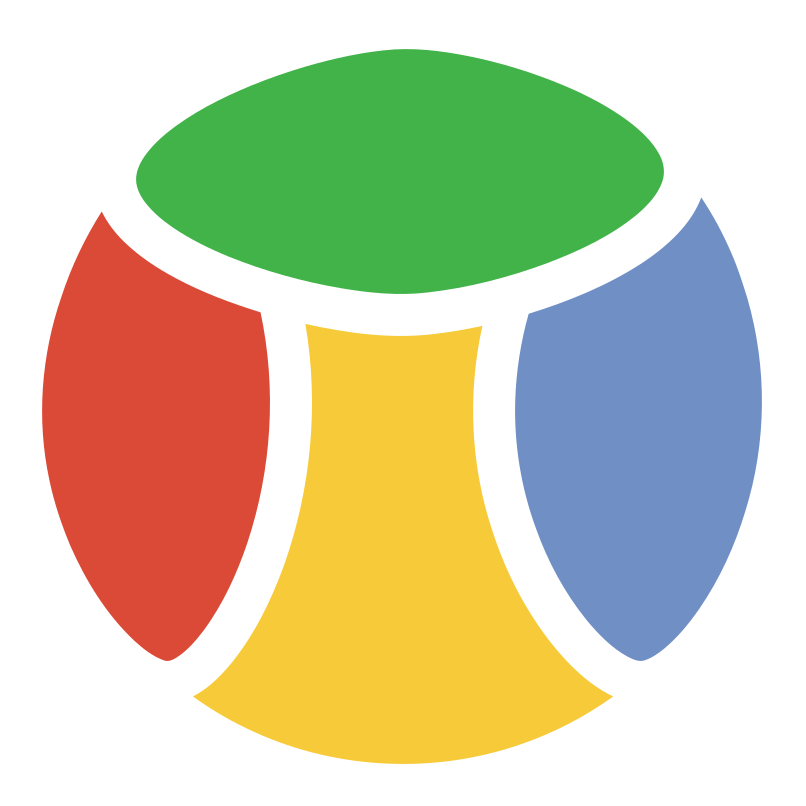
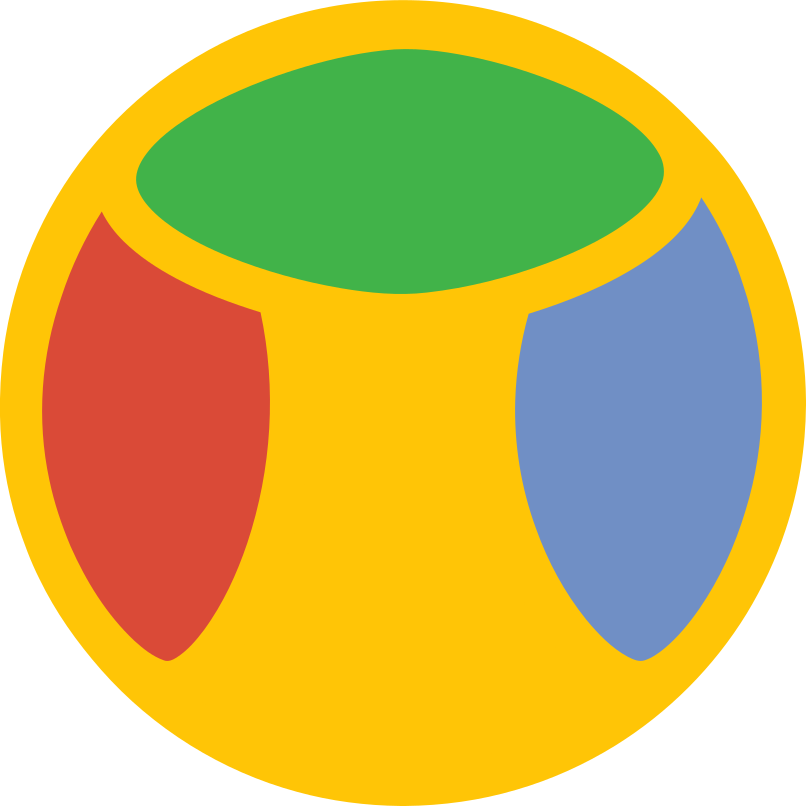
Branding improvements/fixes/changes across differentiation Platform-OS

diff --git a/os/index.html b/os/index.html
@@ -1,13 +1,13 @@
 <!DOCTYPE html>
 <html lang="en-us">
  <head>
-  <title color="">Floflis Platform</title>
+  <title color="">Floflis OS</title>
 <meta charset="utf-8">
 <meta http-equiv="content-type" content="text/html; charset=utf-8" />
 <meta content="width=device-width,initial-scale=1,minimal-ui,shrink-to-fit=no,user-scalable=no" name="viewport">
 <base href="../">
-  <link rel="shortcut icon" href="icon.ico" type="image/x-icon">
-  <link rel="icon" href="icon.ico" type="image/x-icon">
+  <link rel="shortcut icon" href="./os/icon.ico" type="image/x-icon">
+  <link rel="icon" href="./os/icon.ico" type="image/x-icon">
 <link rel="logo" href="flag.svg" border="true" />
 <script type="text/javascript" src="plugins/jQuery/jquery.min.js"></script>
 <script type="text/javascript" src="plugins/Popper.js/popper.min.js"></script>
@@ -65,7 +65,7 @@ header nav ul li p{color:#fff!important}
 
 <div class="content">
 <article>
-<center><img class="img-fluid" width="500px" src="https://github.com/Floflis/nftmark/raw/master/screenshot.png"/><br/><br/><img width="420px" class="img-fluid" src="./press/press-kit/img/logotype_colored.svg" title="Floflis OS" alt="Floflis OS"/><br/><h2>Its to the Web 3.0 what Windows 98 was to the Web 1.0.</h2><h3>What would happen if nowadays OSes had Web3/PlayToEarn/tokens/NFTs integrated? See it on Floflis 🏐</h3>
+<center><img class="img-fluid" width="500px" src="https://github.com/Floflis/nftmark/raw/master/screenshot.png"/><br/><br/><img width="420px" class="img-fluid" src="./press/press-kit/img/OSlogotype.svg" title="Floflis 19" alt="Floflis 19"/><br/><h2>Its to the Web 3.0 what Windows 98 was to the Web 1.0.</h2><h3>What would happen if nowadays OSes had Web3/PlayToEarn/tokens/NFTs integrated? See it on Floflis 🏐</h3>
 
 <h0>But wait!</h0>
 <h1>BLA BLA BLA NFTS, BLA BLA BLA TOKENS...</h1>
@@ -208,7 +208,7 @@ width: 82%;
 
 </article>
 <footer><div class="footer-shadow"></div>
-<center>Last update in Thu Apr 06 14:02 2023 -0300. <a href="http://status.floflis.com/" target="_blank">Status</a>.</center><a href="https://framework.js.org/" target="blank"><img src="https://img.shields.io/badge/built%20with-Framework.js%20(r1)-00A185.svg"></a><!--<a href="https://plasnerd.github.io/PEHTML/" target="blank"><img src="https://plasnerd.github.io/PEHTML/img/seal-2.png" width="167px" height="94px" style="-webkit-user-drag:element"></a>-->
+<center>Last update in Wed Apr 26 20:44 2023 -0300. <a href="http://status.floflis.com/" target="_blank">Status</a>.</center><a href="https://framework.js.org/" target="blank"><img src="https://img.shields.io/badge/built%20with-Framework.js%20(r1)-00A185.svg"></a><!--<a href="https://plasnerd.github.io/PEHTML/" target="blank"><img src="https://plasnerd.github.io/PEHTML/img/seal-2.png" width="167px" height="94px" style="-webkit-user-drag:element"></a>-->
 <div class="social-icons">
 <a href="https://twitter.com/FloflisOS" target="blank"><img src="img/social/twitter.svg" width="40px" height="40px" title="Follow us and receive latest news feed about Floflis progress and other development tools" alt="Twitter"></a>
 <a href="https://tiktok.com/@floflisos" target="blank"><img src="img/social/tiktok.svg" width="40px" height="40px" title="Watch our videos with news/tutorials" alt="Youtube" class="round"></a>

diff --git a/os/download/index.html b/os/download/index.html
@@ -1,13 +1,13 @@
 <!DOCTYPE html>
 <html lang="en-us">
  <head>
-  <title color="">Floflis Platform</title>
+  <title color="">Floflis OS</title>
 <meta charset="utf-8">
 <meta http-equiv="content-type" content="text/html; charset=utf-8" />
 <meta content="width=device-width,initial-scale=1,minimal-ui,shrink-to-fit=no,user-scalable=no" name="viewport">
 <base href="../../">
-  <link rel="shortcut icon" href="icon.ico" type="image/x-icon">
-  <link rel="icon" href="icon.ico" type="image/x-icon">
+  <link rel="shortcut icon" href="./os/icon.ico" type="image/x-icon">
+  <link rel="icon" href="./os/icon.ico" type="image/x-icon">
 <link rel="logo" href="flag.svg" border="true" />
 <script type="text/javascript" src="plugins/jQuery/jquery.min.js"></script>
 <script type="text/javascript" src="plugins/Popper.js/popper.min.js"></script>
@@ -64,7 +64,7 @@ header nav ul li p{color:#fff!important}
 
 <div class="content">
 <article>
-<center><img class="img-fluid" width="500px" src="https://github.com/Floflis/nftmark/raw/master/screenshot.png"/><br/><br/><img width="420px" class="img-fluid" src="./press/press-kit/img/logotype_colored.svg" title="Floflis OS" alt="Floflis OS"/><br/><h1>Download</h1>
+<center><img class="img-fluid" width="500px" src="https://github.com/Floflis/nftmark/raw/master/screenshot.png"/><br/><br/><img width="420px" class="img-fluid" src="./press/press-kit/img/OSlogotype.svg" title="Floflis 19" alt="Floflis 19"/><br/><h1>Download</h1>
 
 <small>Despite the "<b>19</b>" in the edition name, Floflis is being actively developed using current technology (such as <b>Ubuntu 23.04 Lunar Lobster</b> and ready for Ubuntu 24).</small>
 <p>Once the Floflis Insiders program is launched, you'll be able to download build ISOs/images.</p>
@@ -98,7 +98,7 @@ header nav ul li p{color:#fff!important}
 
 </article>
 <footer><div class="footer-shadow"></div>
-<center>Last update in Thu Apr 06 14:03 2023 -0300. <a href="http://status.floflis.com/" target="_blank">Status</a>.</center><a href="https://framework.js.org/" target="blank"><img src="https://img.shields.io/badge/built%20with-Framework.js%20(r1)-00A185.svg"></a><!--<a href="https://plasnerd.github.io/PEHTML/" target="blank"><img src="https://plasnerd.github.io/PEHTML/img/seal-2.png" width="167px" height="94px" style="-webkit-user-drag:element"></a>-->
+<center>Last update in Wed Apr 26 20:44 2023 -0300. <a href="http://status.floflis.com/" target="_blank">Status</a>.</center><a href="https://framework.js.org/" target="blank"><img src="https://img.shields.io/badge/built%20with-Framework.js%20(r1)-00A185.svg"></a><!--<a href="https://plasnerd.github.io/PEHTML/" target="blank"><img src="https://plasnerd.github.io/PEHTML/img/seal-2.png" width="167px" height="94px" style="-webkit-user-drag:element"></a>-->
 <div class="social-icons">
 <a href="https://twitter.com/FloflisOS" target="blank"><img src="img/social/twitter.svg" width="40px" height="40px" title="Follow us and receive latest news feed about Floflis progress and other development tools" alt="Twitter"></a>
 <a href="https://tiktok.com/@floflisos" target="blank"><img src="img/social/tiktok.svg" width="40px" height="40px" title="Watch our videos with news/tutorials" alt="Youtube" class="round"></a>

diff --git a/press/press-kit/index.html b/press/press-kit/index.html
@@ -54,7 +54,7 @@
   </button>
 </div>
 <article>
-<center><img class="img-fluid" src="logotype.png" title="Floflis Platform" alt="Floflis Platform"/><br/><h1>Press Kit</h1><h2>Floflis logos and brand assets</h2></center>
+<center><img class="img-fluid" src="logotype.svg" title="Floflis Platform" alt="Floflis Platform"/><br/><h1>Press Kit</h1><h2>Floflis logos and brand assets</h2></center>
 <hr/>
 
 <h3>Floflis Logotypes</h3>
@@ -65,8 +65,8 @@
   <div class="row">
     <div class="col-sm">
 <h5>Logo Platform</h5>
-<img width="315px" src="./logotype.png">
-<br/><a href="./logotype.png" target="_blank">PNG</a>
+<img width="315px" src="./logotype.svg">
+<br/><a href="./logotype.svg" target="_blank">SVG</a>
     </div>
     <div class="col-sm">
 <h5>Logo - 1-color (black)</h5>
@@ -581,7 +581,7 @@ width: 82%;
 
 </article>
 <footer><div class="footer-shadow"></div>
-<center>Last update in Thu Apr 06 14:04 2023 -0300. <a href="http://status.floflis.com/" target="_blank">Status</a>.</center><a href="https://framework.js.org/" target="blank"><img src="https://img.shields.io/badge/built%20with-Framework.js%20(r1)-00A185.svg"></a><!--<a href="https://plasnerd.github.io/PEHTML/" target="blank"><img src="https://plasnerd.github.io/PEHTML/img/seal-2.png" width="167px" height="94px" style="-webkit-user-drag:element"></a>-->
+<center>Last update in Wed Apr 26 20:56 2023 -0300. <a href="http://status.floflis.com/" target="_blank">Status</a>.</center><a href="https://framework.js.org/" target="blank"><img src="https://img.shields.io/badge/built%20with-Framework.js%20(r1)-00A185.svg"></a><!--<a href="https://plasnerd.github.io/PEHTML/" target="blank"><img src="https://plasnerd.github.io/PEHTML/img/seal-2.png" width="167px" height="94px" style="-webkit-user-drag:element"></a>-->
 <div class="social-icons">
 <a href="https://twitter.com/FloflisOS" target="blank"><img src="img/social/twitter.svg" width="40px" height="40px" title="Follow us and receive latest news feed about Floflis progress and other development tools" alt="Twitter"></a>
 <a href="https://tiktok.com/@floflisos" target="blank"><img src="img/social/tiktok.svg" width="40px" height="40px" title="Watch our videos with news/tutorials" alt="Youtube" class="round"></a>

diff --git a/index.html b/index.html
@@ -45,7 +45,7 @@
 
 <div class="content">
 <article>
-<center><img class="img-fluid" width="500px" src="banner.png"/><br/><img class="img-fluid" src="logotype.png" title="Floflis Platform" alt="Floflis Platform"/><br/><h1>The edge of modern computing.</h1><h3></h3>
+<center><img class="img-fluid" width="500px" src="banner.png"/><br/><img class="img-fluid" src="logotype.svg" title="Floflis Platform" alt="Floflis Platform"/><br/><h1>The edge of modern computing.</h1><h3></h3>
 <hr/>
 
 <h2>Rust everywhere 🦀</h2>
@@ -264,7 +264,7 @@ width: 82%;
 
 </article>
 <footer><div class="footer-shadow"></div>
-<center>Last update in Thu Apr 06 13:58 2023 -0300. <a href="http://status.floflis.com/" target="_blank">Status</a>.</center><a href="https://framework.js.org/" target="blank"><img src="https://img.shields.io/badge/built%20with-Framework.js%20(r1)-00A185.svg"></a><!--<a href="https://plasnerd.github.io/PEHTML/" target="blank"><img src="https://plasnerd.github.io/PEHTML/img/seal-2.png" width="167px" height="94px" style="-webkit-user-drag:element"></a>-->
+<center>Last update in Wed Apr 26 20:54 2023 -0300. <a href="http://status.floflis.com/" target="_blank">Status</a>.</center><a href="https://framework.js.org/" target="blank"><img src="https://img.shields.io/badge/built%20with-Framework.js%20(r1)-00A185.svg"></a><!--<a href="https://plasnerd.github.io/PEHTML/" target="blank"><img src="https://plasnerd.github.io/PEHTML/img/seal-2.png" width="167px" height="94px" style="-webkit-user-drag:element"></a>-->
 <div class="social-icons">
 <a href="https://twitter.com/FloflisOS" target="blank"><img src="img/social/twitter.svg" width="40px" height="40px" title="Follow us and receive latest news feed about Floflis progress and other development tools" alt="Twitter"></a>
 <a href="https://tiktok.com/@floflisos" target="blank"><img src="img/social/tiktok.svg" width="40px" height="40px" title="Watch our videos with news/tutorials" alt="Youtube" class="round"></a>

diff --git a/about/socialnetworks/index.html b/about/socialnetworks/index.html
@@ -54,7 +54,7 @@
   </button>
 </div>
 <article>
-<center><img class="img-fluid" src="logotype.png" title="Floflis Platform" alt="Floflis Platform"/><br/><h1>Social networks</h1><h2>Stay tuned or contact us</h2></center>
+<center><img class="img-fluid" src="logotype.svg" title="Floflis Platform" alt="Floflis Platform"/><br/><h1>Social networks</h1><h2>Stay tuned or contact us</h2></center>
 <hr/>
 
 <p>Gather with us in:</p>
@@ -78,7 +78,7 @@
 
 </article>
 <footer><div class="footer-shadow"></div>
-<center>Last update in Thu Apr 06 13:58 2023 -0300. <a href="http://status.floflis.com/" target="_blank">Status</a>.</center><a href="https://framework.js.org/" target="blank"><img src="https://img.shields.io/badge/built%20with-Framework.js%20(r1)-00A185.svg"></a><!--<a href="https://plasnerd.github.io/PEHTML/" target="blank"><img src="https://plasnerd.github.io/PEHTML/img/seal-2.png" width="167px" height="94px" style="-webkit-user-drag:element"></a>-->
+<center>Last update in Wed Apr 26 20:54 2023 -0300. <a href="http://status.floflis.com/" target="_blank">Status</a>.</center><a href="https://framework.js.org/" target="blank"><img src="https://img.shields.io/badge/built%20with-Framework.js%20(r1)-00A185.svg"></a><!--<a href="https://plasnerd.github.io/PEHTML/" target="blank"><img src="https://plasnerd.github.io/PEHTML/img/seal-2.png" width="167px" height="94px" style="-webkit-user-drag:element"></a>-->
 <div class="social-icons">
 <a href="https://twitter.com/FloflisOS" target="blank"><img src="img/social/twitter.svg" width="40px" height="40px" title="Follow us and receive latest news feed about Floflis progress and other development tools" alt="Twitter"></a>
 <a href="https://tiktok.com/@floflisos" target="blank"><img src="img/social/tiktok.svg" width="40px" height="40px" title="Watch our videos with news/tutorials" alt="Youtube" class="round"></a>
